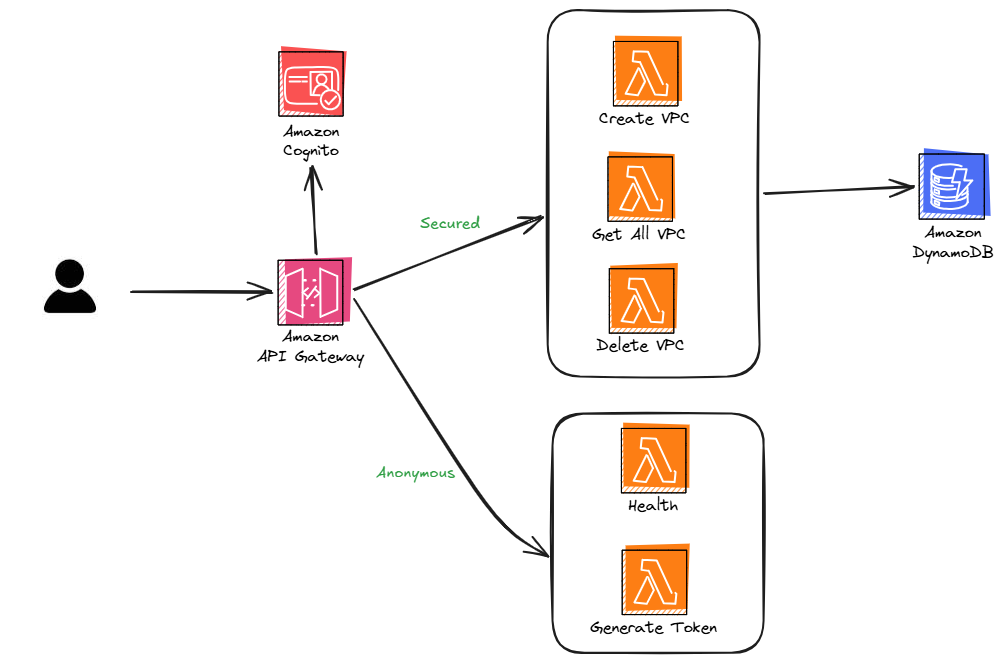
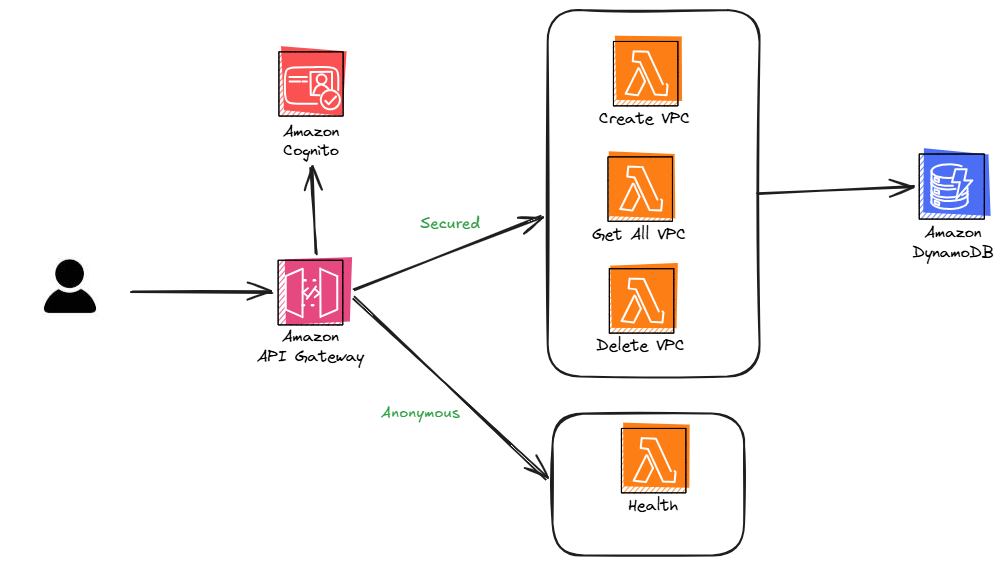
Added all the handler logic

diff --git a/lambda/create_vpc/handler.py b/lambda/create_vpc/handler.py
@@ -1,21 +1,107 @@
+from dataclasses import dataclass
 import json
+import os
+from datetime import datetime, timezone
 from typing import Any, Dict
+
+import boto3
+from mypy_boto3_ec2 import EC2Client
 from aws_lambda_powertools.utilities.data_classes import APIGatewayProxyEventV2, event_source
 from aws_lambda_powertools import Logger
 from aws_lambda_powertools.utilities.typing import LambdaContext
 
 logger = Logger()
 
+
+@dataclass
+class VpcCreateDTO:
+    """Required request fields for creating a VPC."""
+
+    vpc_name: str
+    cidr_block: str
+
+
+def validate_input(payload: Any) -> VpcCreateDTO:
+    """Check required request fields and build the VPC creation DTO."""
+    if not isinstance(payload, dict):
+        raise ValueError("Request body must be a JSON object.")
+   
+    input_request =  VpcCreateDTO(**payload)
+
+    if not input_request.vpc_name.strip():
+        raise ValueError("The 'vpc_name' field cannot be empty.")
+
+    if not input_request.cidr_block.strip():
+        raise ValueError("The 'cidr_block' field cannot be empty.")
+
+    return input_request
+
+
+def _response(status_code: int, body: Dict[str, Any]) -> Dict[str, Any]:
+    """Build an API Gateway proxy response with a JSON body."""
+    return {
+        "statusCode": status_code,
+        "headers": {"Content-Type": "application/json"},
+        "body": json.dumps(body),
+    }
+    
+
 @event_source(data_class=APIGatewayProxyEventV2)
 def lambda_handler(event: APIGatewayProxyEventV2, context: LambdaContext) -> Dict[str, Any]:
     """
-    Lambda function to perform a health check.
+    Create a VPC from the request body and store its metadata in DynamoDB.
     """
-    logger.info("Health check invoked.")
-    
-    response: Dict[str, Any] = {
-        "statusCode": 200,
-        "body": json.dumps({"message": "Service is healthy!"})
-    }
-    
-    return response
+    try:
+        # 1. Parse the API Gateway request body.
+        request_body = event.body
+        payload = json.loads(request_body) if request_body else None
+        vpc_input = validate_input(payload)
+
+        # 2 Create clients
+        ec2: EC2Client = boto3.client("ec2") 
+        table = boto3.resource("dynamodb").Table(os.environ["TABLE_NAME"])
+
+        # 3. Create VPC
+        create_result = ec2.create_vpc(
+            CidrBlock=vpc_input.cidr_block,
+            TagSpecifications=[
+                {
+                    "ResourceType": "vpc",
+                    "Tags": [{"Key": "Name", "Value": vpc_input.vpc_name}],
+                }
+            ],
+        )
+        vpc = create_result["Vpc"]
+        vpc_id = vpc["VpcId"]
+        created_at = datetime.now(timezone.utc)
+        timestamp = created_at.strftime("%B %d, %Y at %I:%M:%S %p UTC")
+
+        # 4. Store in DynamoDB
+        table.put_item(
+            Item={
+                "id": vpc_id,
+                "name": vpc_input.vpc_name,
+                "cidr": vpc_input.cidr_block,
+                "created_on": timestamp,
+            }
+        )
+
+        logger.info("VPC created and stored", extra={"vpc_id": vpc_id})
+
+        # 5. Return the response
+        return _response(
+            200,
+            {
+                "message": "VPC created successfully.",
+                "vpc_id": vpc_id,
+                "name": vpc_input.vpc_name,
+                "cidr": vpc_input.cidr_block,
+                "created_on": timestamp,
+            },
+        )
+    except (ValueError) as error:
+        logger.info("Invalid VPC creation request", extra={"error": str(error)})
+        return _response(400, {"error": str(error)})
+    except Exception:
+        logger.exception("Failed to create or store VPC")
+        return _response(500, {"error": "Internal server error."})

diff --git a/lambda/delete_vpc/handler.py b/lambda/delete_vpc/handler.py
@@ -1,5 +1,9 @@
 import json
+import os
 from typing import Any, Dict
+
+import boto3
+from botocore.exceptions import ClientError
 from aws_lambda_powertools.utilities.data_classes import APIGatewayProxyEventV2, event_source
 from aws_lambda_powertools import Logger
 from aws_lambda_powertools.utilities.typing import LambdaContext
@@ -9,13 +13,42 @@ logger = Logger()
 @event_source(data_class=APIGatewayProxyEventV2)
 def lambda_handler(event: APIGatewayProxyEventV2, context: LambdaContext) -> Dict[str, Any]:
     """
-    Lambda function to perform a health check.
+    Delete a VPC and its metadata using the VPC ID from the request URL.
     """
-    logger.info("Health check invoked.")
-    
-    response: Dict[str, Any] = {
-        "statusCode": 200,
-        "body": json.dumps({"message": "Service is healthy!"})
-    }
-    
-    return response
+    try:
+        # 1. Validation - Read the VPC ID from the /vpcs/{vpc_id} URL path parameter.
+        path_parameters = event.path_parameters or {}
+        vpc_id = path_parameters.get("vpc_id")
+        if not vpc_id:
+            return {
+                "statusCode": 400,
+                "headers": {"Content-Type": "application/json"},
+                "body": json.dumps({"error": "Missing required path parameter: vpc_id."}),
+            }
+
+        # 2. Create clients
+        ec2 = boto3.client("ec2")
+        table = boto3.resource("dynamodb").Table(os.environ["TABLE_NAME"])
+
+        # 3. Validation - If the ID doesn’t exist, the describe_vpcs will throw a ClientError
+        ec2.describe_vpcs(VpcIds=[vpc_id])
+
+        # 4. Delete the VPC
+        ec2.delete_vpc(VpcId=vpc_id)
+        
+        # 5. Update the DynamoDB
+        table.delete_item(Key={"id": vpc_id})
+
+        logger.info("VPC deleted", extra={"vpc_id": vpc_id})
+        return {
+            "statusCode": 200,
+            "headers": {"Content-Type": "application/json"},
+            "body": json.dumps({"message": "VPC deleted successfully.", "vpc_id": vpc_id}),
+        }
+    except Exception:
+        logger.exception("Failed to delete VPC")
+        return {
+            "statusCode": 500,
+            "headers": {"Content-Type": "application/json"},
+            "body": json.dumps({"error": "Internal server error."}),
+        }

diff --git a/infrastructure/api_stack.py b/infrastructure/api_stack.py
@@ -39,11 +39,10 @@ class ApiStack(Stack):
             )
         )
 
-        # 2. Create a DynamoDB table with a primary key of "id" (string) and a sort key of "timestamp" (number)
+        # 2. Create a DynamoDB table with a primary key of "id".
         dynamodb_table = dynamodb.Table(self, "aws-challenge-metadata-table",
             table_name="aws-challenge-metadata-table",
             partition_key=dynamodb.Attribute(name="id", type=dynamodb.AttributeType.STRING),
-            sort_key=dynamodb.Attribute(name="timestamp", type=dynamodb.AttributeType.NUMBER),
             removal_policy=cdk.RemovalPolicy.DESTROY,  # NOT recommended for production
         )
 
@@ -147,6 +146,7 @@ class ApiStack(Stack):
         # 4.3. Create resources for the API Gateway
         api_resource = api.root.add_resource("api")
         vpc_resource = api.root.add_resource("vpcs")
+        delete_vpc_resource = vpc_resource.add_resource("{vpc_id}")
         health_check_resource = api_resource.add_resource("health")
 
         # 4.4. Add methods to the API Gateway resources
@@ -164,7 +164,7 @@ class ApiStack(Stack):
             authorizer=authorizer,
         )
 
-        vpc_resource.add_method(
+        delete_vpc_resource.add_method(
             "DELETE",
             apigateway.LambdaIntegration(delete_vpc_lambda),
             authorization_type=apigateway.AuthorizationType.COGNITO,
@@ -181,15 +181,3 @@ class ApiStack(Stack):
         cdk.CfnOutput(self, "ApiUrl", value=api.url)
         cdk.CfnOutput(self, "UserPoolId", value=userpool.user_pool_id)
         cdk.CfnOutput(self, "UserPoolClientId", value=app_client.user_pool_client_id)
-
-       
-
-## TODO
-# 0. Delete generate token lambda, create user form cli
-# 2. update diagrsms and directory structure
-# 1. Lambda functions - Done
-# 2. IAM roles for lambda functions - Done
-# 3. Pylint 
-# 4. Documentation 
-# 5. Remove unit tests     
-# 21.05  

diff --git a/lambda/get_all_vpc/handler.py b/lambda/get_all_vpc/handler.py
@@ -1,5 +1,8 @@
 import json
+import os
 from typing import Any, Dict
+
+import boto3
 from aws_lambda_powertools.utilities.data_classes import APIGatewayProxyEventV2, event_source
 from aws_lambda_powertools import Logger
 from aws_lambda_powertools.utilities.typing import LambdaContext
@@ -9,13 +12,31 @@ logger = Logger()
 @event_source(data_class=APIGatewayProxyEventV2)
 def lambda_handler(event: APIGatewayProxyEventV2, context: LambdaContext) -> Dict[str, Any]:
     """
-    Lambda function to perform a health check.
+    Return all VPC metadata records stored in DynamoDB.
     """
-    logger.info("Health check invoked.")
-    
-    response: Dict[str, Any] = {
-        "statusCode": 200,
-        "body": json.dumps({"message": "Service is healthy!"})
-    }
-    
-    return response
+    try:
+        # 1. Create client
+        table = boto3.resource("dynamodb").Table(os.environ["TABLE_NAME"])
+
+        # 2. Scan table
+        scan_result = table.scan()
+        items = scan_result.get("Items", [])
+        while "LastEvaluatedKey" in scan_result:
+            scan_result = table.scan(
+                ExclusiveStartKey=scan_result["LastEvaluatedKey"]
+            )
+            items.extend(scan_result.get("Items", []))
+
+        # 3. Return response
+        return {
+            "statusCode": 200,
+            "headers": {"Content-Type": "application/json"},
+            "body": json.dumps({"items": items}),
+        }
+    except Exception:
+        logger.exception("Failed to scan VPC metadata")
+        return {
+            "statusCode": 500,
+            "headers": {"Content-Type": "application/json"},
+            "body": json.dumps({"error": "Internal server error."}),
+        }

diff --git a/README.md b/README.md
@@ -48,11 +48,10 @@ Create an API based on AWS services that can create a VPC with multiple subnets 
    cdk deploy
    ```
 4. After the deployment is complete, you will see the API URL and Cognito User Pool ID in the output.
+
    ![](docs/deployment_output.png)
 
-## Verification of the solution
-
-### 1. Getting JWT token for testing the API
+## Verification Prerequisite - Generating JWT token
 1. Create a test user
     ```bash
     aws cognito-idp admin-create-user \
@@ -82,38 +81,69 @@ Create an API based on AWS services that can create a VPC with multiple subnets 
     The response contains the Cognito tokens:
     ```json
     {
-    "AuthenticationResult": {
-        "AccessToken": "...",
-        "IdToken": "...",
-        "RefreshToken": "...",
-        "ExpiresIn": 3600
-    }
+        "AuthenticationResult": {
+            "AccessToken": "...",
+            "IdToken": "...",
+            "RefreshToken": "...",
+            "ExpiresIn": 3600
+        }
     }
     ```
 
-### 2. Testing the API
-1. Use the JWT token obtained in the previous step to test the API endpoints using `curl` or Postman. For example, to create a VPC:
+## Verification - Testing the API
+
+Test the API using the generated JWT token. Replace `<API_URL>` with the actual API URL and `<JWT_TOKEN>` with the generated JWT token
+
+- `<API_URL>` should be in the format `https://<api-id>.execute-api.<region>.amazonaws.com/prod`
+- `<JWT_TOKEN>` should be the `IdToken` from the previous step.
+
+### 1. Health Check
+
     ```bash
-    curl -X POST https://<API_GATEWAY_URL>/api/vpcs \
+    curl -X GET <API_URL>/api/health
+    ```
+   
+### 2. Create a VPC
+
+    ```bash
+    curl -X POST <API_URL>/api/vpcs \
     -H "Authorization: Bearer <JWT_TOKEN>" \
     -H "Content-Type: application/json" \
     -d '{
-        "vpc_name": "MyVPC",
-        "cidr_block": "10.0.0.0/16"
-    }'
+            "vpc_name": "my-vpc",
+            "cidr_block": "10.0.0.0/16"
+        }'
+    ```
+### 3. Get VPC details
+   ```bash
+   curl -X GET <API_URL>/api/vpcs \
+   -H "Authorization: Bearer <JWT_TOKEN>"
+   ```
 
-## Clean up the solution
+### 4. Delete a VPC
+   ```bash
+   curl -X DELETE <API_URL>/api/vpcs/<vpc_id> \
+   -H "Authorization: Bearer <JWT_TOKEN>"
+   ```
+
+
+## Clean up
+Remove the deployed resources to avoid incurring charges:
+```bash
+cdk destroy
+```
+or go to the AWS Management Console and delete the stack manually.
 
 ## References
-- Refer [Working with the AWS CDK in Python](https://docs.aws.amazon.com/cdk/v2/guide/work-with-cdk-python.html) for more information.
+- [Working with the AWS CDK in Python](https://docs.aws.amazon.com/cdk/v2/guide/work-with-cdk-python.html)
 - [Serverless Patterns Collection](https://serverlessland.com/patterns)
 - [Powertools for AWS Lambda (Python)](https://docs.aws.amazon.com/powertools/python/latest/utilities/data_classes/)
 
 ## Best practices
 1. Always execute commands in a virtual environment to avoid dependency conflicts.
-2. Your requirements.txt should list only top-level dependencies (modules that your app depends on directly) and not the dependencies of those libraries. To follow this, you can use the following steps:
+2. Your `requirements.txt` should list only top-level dependencies (modules that your app depends on directly) and not the dependencies of those libraries. To follow this, you can use the following steps:
     - Install packages using `pip install <package_name>`.
     - Run `pip show <package_name>` to view the package version and its dependencies.
     - Then manually add `<package_name>==2.32.5` to your `requirements.txt` file.
 3. Developer experience
-    - Use `pylance` to prevent type errors. Refer [preventing type errors](https://docs.aws.amazon.com/cdk/v2/guide/work-with-cdk-python.html#python-managemodules)
+    - Use `pylance` to prevent type errors, and get intellisense support. Refer [preventing type errors](https://docs.aws.amazon.com/cdk/v2/guide/work-with-cdk-python.html#python-managemodules)
